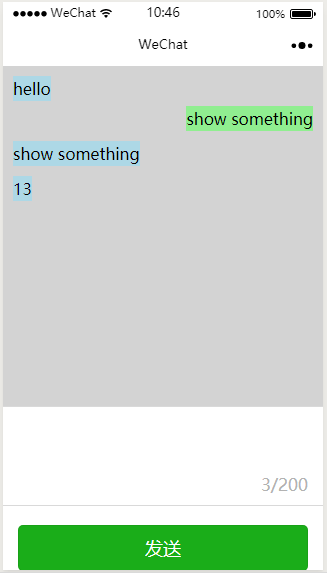
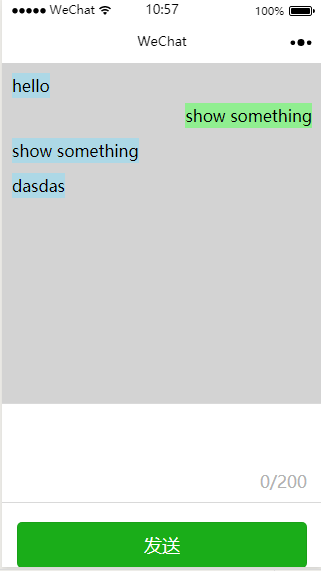
#4 #61 第四次实验代码

diff --git a/1514080901106/pages/form/form.js b/1514080901106/pages/form/form.js
@@ -87,7 +87,8 @@ Page({
       that.setData({
         hasError: false,
         message: test,
-        text: ''
+        text: '',
+        count: 0
       })
       wx.setStorage({
         key: "input",
